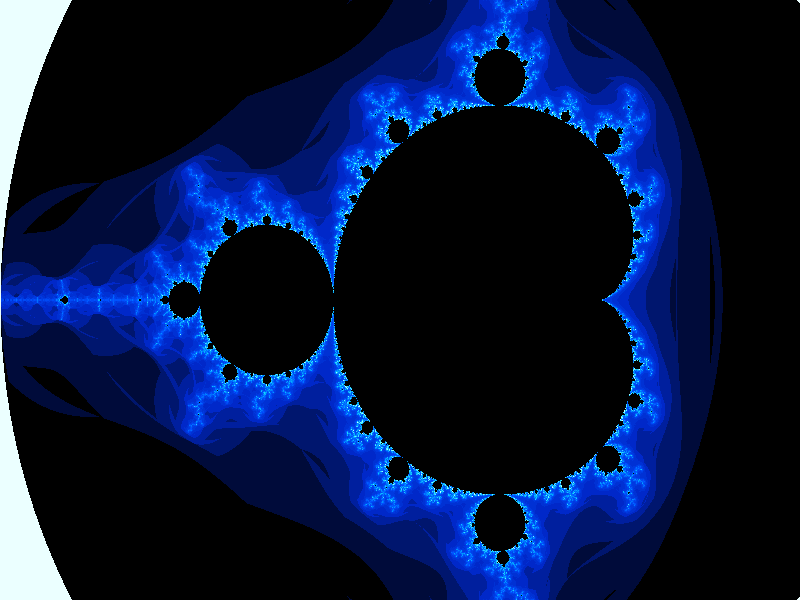
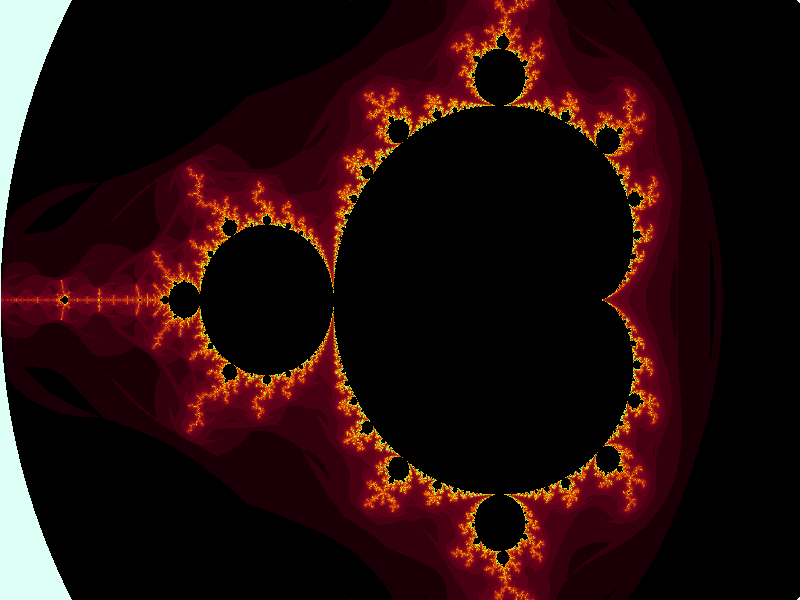
mandelbrot

diff --git a/src/examples/mandelbrot/mandelbrot.py b/src/examples/mandelbrot/mandelbrot.py
@@ -15,8 +15,8 @@ has_cuda = False
 playing = False
 paused = False
 speed_factor = 1.03
-center_x = -0.5
-center_y = 0.0
+center_x = -0.7269
+center_y = 0.1889
 zoom = 1.0
 frame_count = 0
 color_scheme = 0
@@ -64,8 +64,8 @@ def on_reset(event):
     global playing, paused, center_x, center_y, zoom, frame_count
     playing = False
     paused = False
-    center_x = -0.5
-    center_y = 0.0
+    center_x = -0.7269
+    center_y = 0.1889
     zoom = 1.0
     frame_count = 0
     updateStatus("Reset")
@@ -96,6 +96,8 @@ def on_down(event):
 def on_speed_change(event):
     global speed_factor
     val = event.value
+    if val <= 0:
+        return  # PRESSED/RELEASED events pass value=0, skip them
     speed_factor = 1.0 + val * 0.005
 
 def on_palette_change(event):
@@ -105,8 +107,7 @@ def on_palette_change(event):
         if sel in palette_map:
             color_scheme = palette_map[sel]
             updateStatus(f"Palette: {sel}")
-            if not playing:
-                update_image()
+            update_image()
 
 has_cuda = lele.hasCuda()
 